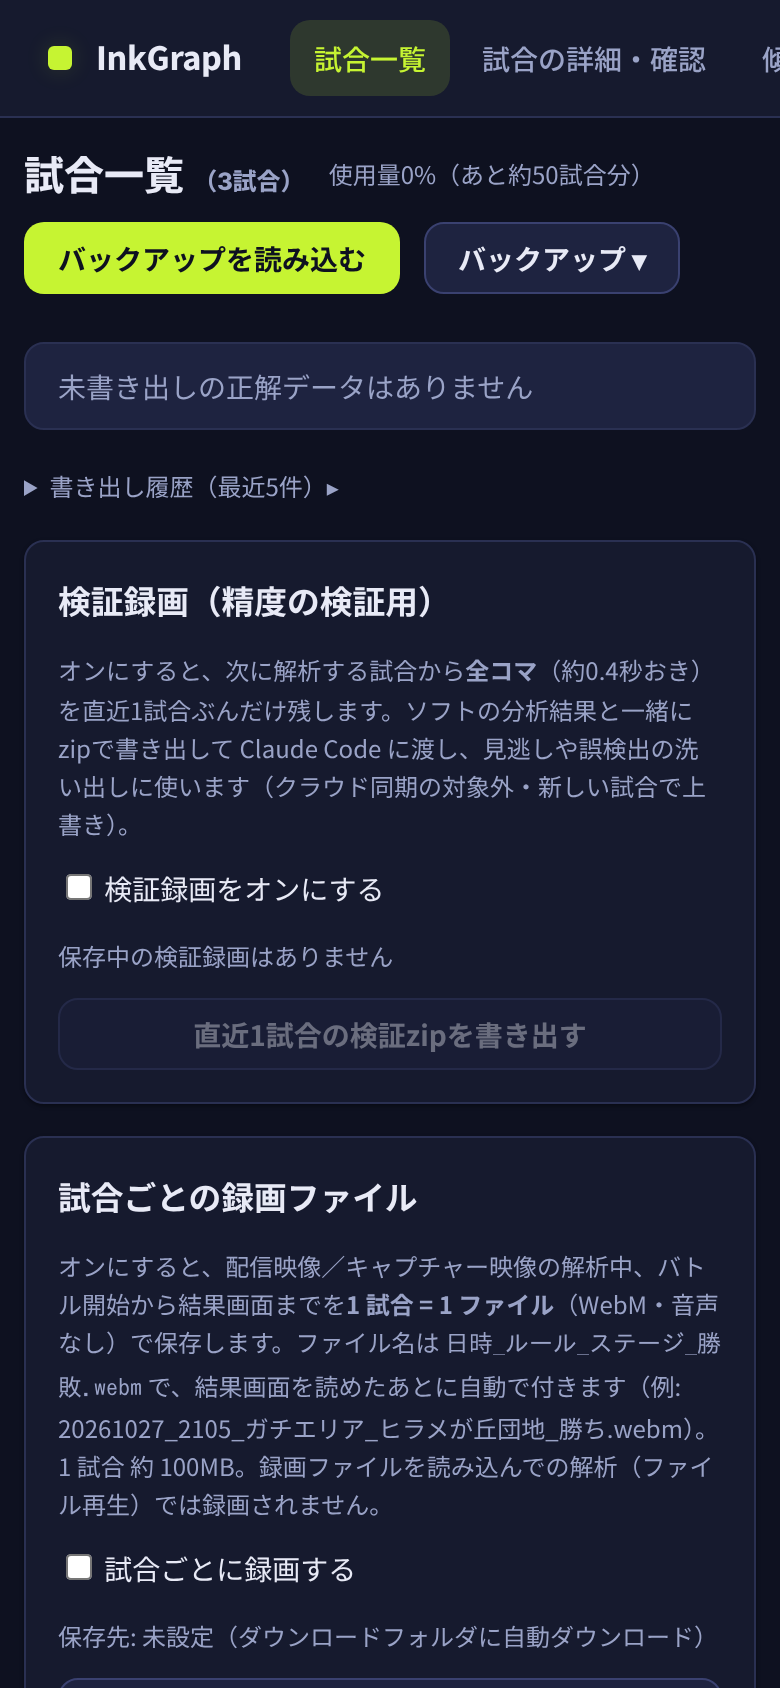
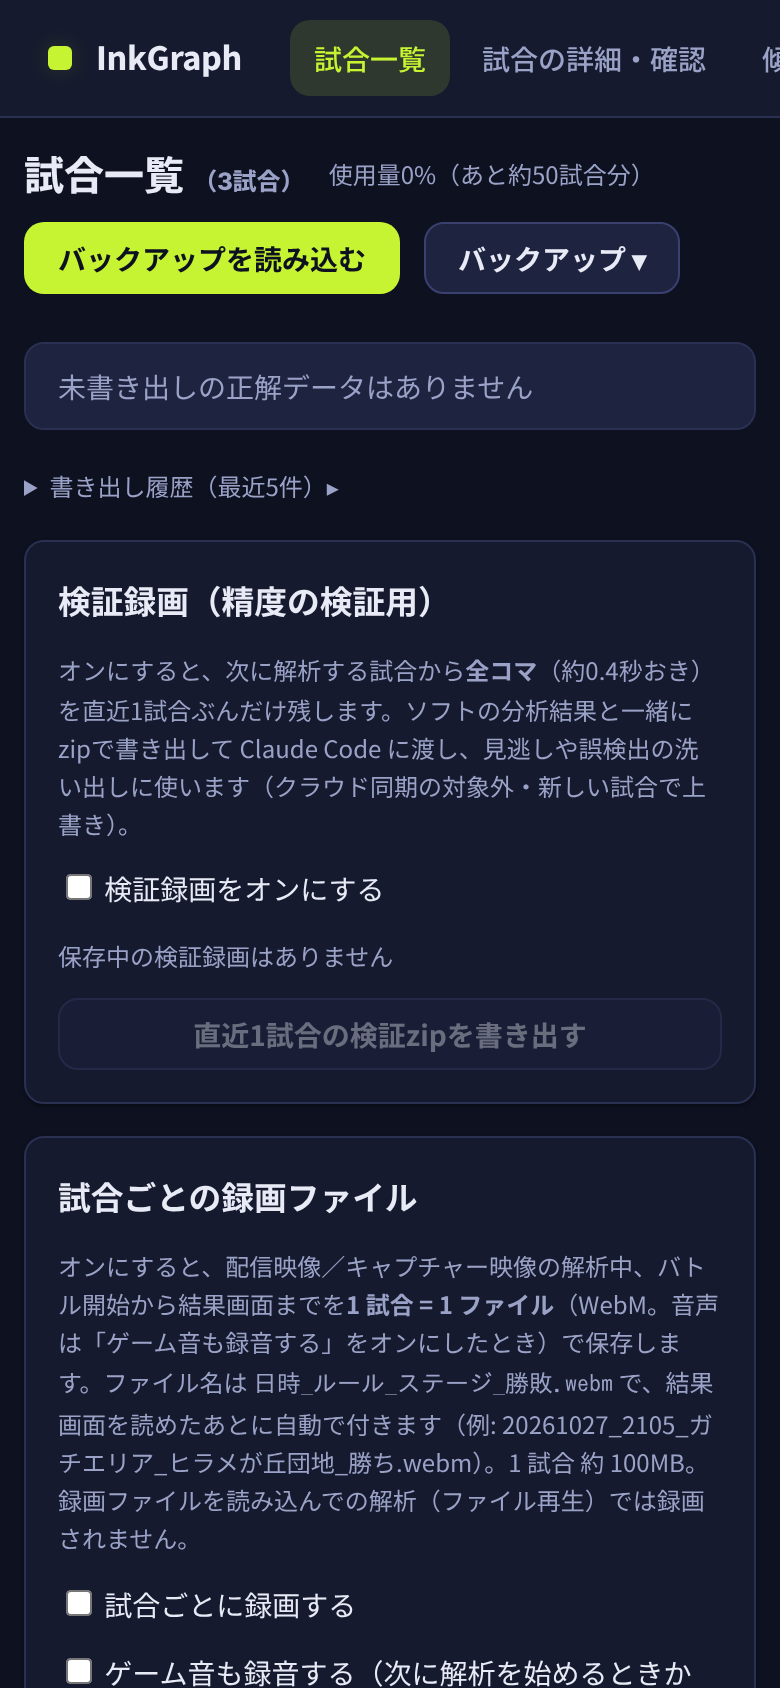
試合録画の状況表示と保存先の書き込み許可の聞き直し (D70) (#166)
* 検証録画: 直近1試合の全コマ＋分析結果のzip書き出し (D67)

Claude-Session: https://claude.ai/code/session_018zsqgbHNLDpb8cVTBpk5SR

* 試合ごとの録画ファイル: ルール・ステージ入りの名前で1試合1ファイル (D68)

Claude-Session: https://claude.ai/code/session_018zsqgbHNLDpb8cVTBpk5SR

* 試合録画にゲーム音を追加 (D68追記)

Claude-Session: https://claude.ai/code/session_018zsqgbHNLDpb8cVTBpk5SR

* ブキアイコンの読み違い対策（ボードの数が読めない枠を捨てる・絵の無いアイコンを出さない）と記録の全消去ボタン (D69)

Claude-Session: https://claude.ai/code/session_018zsqgbHNLDpb8cVTBpk5SR

* 試合録画: 状況表示と保存先の書き込み許可の聞き直し (D70)

Claude-Session: https://claude.ai/code/session_018zsqgbHNLDpb8cVTBpk5SR

* 試合録画: 2試合連続で別ファイルになることのテストを追加

Claude-Session: https://claude.ai/code/session_018zsqgbHNLDpb8cVTBpk5SR

---------

Changed region(s): [[0.0615, 0.7701, 0.9231, 1.0]]

diff --git a/web/src/session.js b/web/src/session.js
@@ -6,7 +6,7 @@ import { selectClips } from './clips.js';
 import AnalyzerWorker from './worker.js?worker';
 import { CaptureGuard } from './capture_guard.js';
 import * as detectParams from './detect_params.js';
-import { MatchRecorder, videoSupported, getVideoOn, getAudioOn, videoFilename, saveVideo } from './video_rec.js';
+import { MatchRecorder, videoSupported, getVideoOn, getAudioOn, videoFilename, saveVideo, ensureDirPermission } from './video_rec.js';
 export async function listDevices() {
   try { const s = await navigator.mediaDevices.getUserMedia({ video: true }); s.getTracks().forEach(t => t.stop()); } catch (e) { /* permission denied */ }
   return (await navigator.mediaDevices.enumerateDevices()).filter(d => d.kind === 'videoinput');
@@ -20,6 +20,12 @@ export class Session {
   }
   async start({ mode, deviceId, file, fast = false, owner = 'self' }) {
     const wantAudio = getVideoOn() && getAudioOn();
+    // D70: 録画の状況を画面に出す。保存先の書き込み許可は、開始ボタンを押した直後（ユーザー操作の中）に聞き直す（再読み込みのあとは切れている）
+    if (getVideoOn()) {
+      if (mode === 'file') this.videoNote('録画: 録画ファイルの解析では録画しません（配信映像／キャプチャー映像のときだけ録画します）');
+      else if (!videoSupported()) this.videoNote('録画: このブラウザは録画（MediaRecorder）に対応していません');
+      else { const h = await db.getVideoDir().catch(() => null), p = await ensureDirPermission(h); this.videoNote(h ? (p === 'granted' ? `録画: オン（保存先: ${h.name}）。次のバトル開始から録画します` : '録画: オン。保存先フォルダの書き込みが許可されなかったので、ダウンロードで保存します') : '録画: オン（保存先フォルダ未設定のため、ダウンロードで保存します）。次のバトル開始から録画します'); }
+    }
     this.mode = mode; this.owner = owner || 'self'; this.fast = fast; this.sessionId = new Date().toISOString();
     if (mode === 'stream') {
       this.sourceName = '配信映像（画面共有）';
@@ -161,19 +167,20 @@ export class Session {
     else if (m.type === 'flushed') this.flushed?.();
   }
   // D68: 試合ごとの録画。バトル開始で録り始め、終了の 25 秒後（結果画面ぶん）に止めて、試合の保存時に名前を付けて保存する
+  videoNote(msg, level = 'info') { try { this.cb.videoStatus?.({ msg, level }); } catch { /* ignore */ } }
   videoStart() {
     if (this.mode === 'file' || !this.stream || !videoSupported() || !getVideoOn()) return;
     this.videoQueue = this.videoQueue || [];
-    try { const r = new MatchRecorder(this.stream).start(); this.vcur = { r, timer: null }; this.videoQueue.push(this.vcur); } catch (e) { console.warn('video start failed', e); this.vcur = null; }
+    try { const r = new MatchRecorder(this.stream).start(); this.vcur = { r, timer: null }; this.videoQueue.push(this.vcur); this.videoNote('録画: 開始しました（バトル終了と結果画面のあとに保存します）'); } catch (e) { console.warn('video start failed', e); this.vcur = null; this.videoNote('録画: 開始できませんでした（' + (e?.message || e) + '）', 'error'); }
   }
   videoEndSoon() { const c = this.vcur; if (c && !c.timer) c.timer = setTimeout(() => c.r.stop(), 25000); }
   videoDrop() { const c = this.vcur; if (!c) return; clearTimeout(c.timer); c.r.stop(); this.videoQueue = (this.videoQueue || []).filter(x => x !== c); this.vcur = null; }
   async videoFinalize(rec, keep) {
     const c = (this.videoQueue || []).shift(); if (!c) return;
     clearTimeout(c.timer); if (this.vcur === c) this.vcur = null;
-    const blob = await c.r.stop(); if (!keep || !blob || !blob.size) return;
+    const blob = await c.r.stop(); if (!keep) return; if (!blob || !blob.size) { this.videoNote('録画: 映像が空だったので保存しませんでした', 'error'); return; }
     try { const name = videoFilename({ ...rec, created: new Date(Date.parse(this.sessionId) + (rec.battle?.[0] ?? 0) * 1000).toISOString() }), res = await saveVideo(blob, name, { getDir: db.getVideoDir }); rec.videoFile = name; this.cb.videoSaved?.({ ...res, bytes: blob.size }); }
-    catch (e) { console.warn('video save failed', e); }
+    catch (e) { console.warn('video save failed', e); this.videoNote('録画: 保存に失敗しました（' + (e?.message || e) + '）', 'error'); }
   }
   async saveMatch(rec) {
     if (!this.fast) {

diff --git a/web/src/main.js b/web/src/main.js
@@ -87,6 +87,7 @@ getEnemyIconLib();
 window.inkgraph = {
   db,
   VR,
+  Session,
   learn,
   analysis: AN,
   capacity: CP,
@@ -688,7 +689,8 @@ PAGES.live = async () => {
     const vEmpty = $('#video-empty', page);
     if (vEmpty) vEmpty.style.display = 'none';
     session = new Session($('#v', page), {
-      videoSaved: r => { try { addEventRow('', '🎬', `録画を保存: ${r.filename}（${r.where === 'folder' ? 'フォルダ「' + r.folder + '」' : 'ダウンロード'}・${fmtBytes(r.bytes)}）`, null); } catch { /* ignore */ } },
+      videoSaved: r => { try { addEventRow('', '🎬', `録画を保存: ${r.filename}（${r.where === 'folder' ? 'フォルダ「' + r.folder + '」' : 'ダウンロード' + (r.why ? '・理由: ' + r.why : '')}・${fmtBytes(r.bytes)}）`, null); } catch { /* ignore */ } },
+      videoStatus: r => { try { addEventRow('', r.level === 'error' ? '⚠' : '🎬', r.msg, null); } catch { /* ignore */ } },
       event: e => {
         if (e.type === 'special_end') return;
         const tt = mss(e.t - t0);
@@ -1762,9 +1764,10 @@ PAGES.list = async () => {
       <label class="row"><input type="checkbox" id="video-audio" ${VR.getAudioOn() ? 'checked' : ''} ${sup ? '' : 'disabled'}> ゲーム音も録音する（次に解析を始めるときから）</label>
       <p class="muted">配信映像（画面共有）: 共有ダイアログの「タブの音声／システムの音声も共有」にチェックを入れてください（Windows の Chrome／Edge。Mac は「タブ」の音声のみ）。キャプチャー映像: ボードの音声入力（映像と同じ機器の音声）を自動で探して足します。見つからないときは音声なしで録画します。録画中、画面からの再生音は出しません（二重に聞こえるのを防ぐため）。</p>
       <p class="muted" id="video-dir">保存先: ${dir ? esc(dir.name) + (perm === 'granted' ? '（書き込み許可済み）' : '（許可が切れています。「保存先を選ぶ」で選び直してください）') : '未設定（ダウンロードフォルダに自動ダウンロード）'}</p>
-      <button class="btn" id="video-pick" type="button" ${canPick ? '' : 'disabled'}>${dir ? '保存先を選び直す' : '保存先フォルダを選ぶ'}</button>${canPick ? '' : '<span class="muted"> このブラウザはフォルダ指定に未対応（Chrome／Edge なら可）。ダウンロードで保存します。</span>'}`;
+      <button class="btn" id="video-pick" type="button" ${canPick ? '' : 'disabled'}>${dir ? '保存先を選び直す' : '保存先フォルダを選ぶ'}</button>${dir && perm !== 'granted' ? ' <button class="btn" id="video-regrant" type="button">書き込みを許可する</button>' : ''}${canPick ? '' : '<span class="muted"> このブラウザはフォルダ指定に未対応（Chrome／Edge なら可）。ダウンロードで保存します。</span>'}`;
     $('#video-on', el).onchange = e => VR.setVideoOn(e.target.checked);
     $('#video-audio', el).onchange = e => VR.setAudioOn(e.target.checked);
+    const rg = $('#video-regrant', el); if (rg) rg.onclick = async () => { await VR.ensureDirPermission(dir); await updateVideoPanel(); };
     $('#video-pick', el).onclick = async () => { try { const h = await window.showDirectoryPicker({ mode: 'readwrite' }); await db.setVideoDir(h); await updateVideoPanel(); } catch { /* cancelled */ } };
   };
   await updateVideoPanel();

diff --git a/web/src/video_rec.js b/web/src/video_rec.js
@@ -40,17 +40,25 @@ export const getAudioOn = () => { try { return localStorage.getItem(KEY + '.audi
 export const setAudioOn = on => { try { localStorage.setItem(KEY + '.audio', on ? '1' : '0'); } catch { /* ignore */ } };
 export const setVideoOn = on => { try { localStorage.setItem(KEY, on ? '1' : '0'); } catch { /* ignore */ } };
 
+/** 保存先フォルダの書き込み許可。再読み込みのあとは 'prompt' に戻っているので、ボタンを押した直後（ユーザー操作の中）に聞き直す。'granted' / 'denied' / 'prompt' / null（フォルダ未設定）を返す */
+export async function ensureDirPermission(h) {
+  if (!h) return null;
+  try { let p = await h.queryPermission?.({ mode: 'readwrite' }); if (p !== 'granted') p = await h.requestPermission?.({ mode: 'readwrite' }); return p || 'prompt'; } catch { return 'prompt'; }
+}
+
 /** 保存先フォルダ（File System Access API）。ハンドルは IndexedDB の learn ストア（key: videoDir）に持つ。使えないときはダウンロード */
 export async function saveVideo(blob, filename, store) {
   const h = await store.getDir?.();
+  let why = h ? null : 'フォルダ未設定';
   if (h) {
     try {
       if ((await h.queryPermission?.({ mode: 'readwrite' })) === 'granted') {
         const fh = await h.getFileHandle(filename, { create: true }), w = await fh.createWritable(); await w.write(blob); await w.close();
         return { where: 'folder', folder: h.name, filename };
       }
-    } catch (e) { console.warn('folder save failed', e); }
+      why = '書き込み許可が切れている';
+    } catch (e) { console.warn('folder save failed', e); why = 'フォルダへの保存に失敗（' + (e?.message || e) + '）'; }
   }
   const a = document.createElement('a'); a.href = URL.createObjectURL(blob); a.download = filename; document.body.appendChild(a); a.click(); a.remove(); setTimeout(() => URL.revokeObjectURL(a.href), 60000);
-  return { where: 'download', filename };
+  return { where: 'download', filename, why };
 }

diff --git a/docs/DECISIONS.md b/docs/DECISIONS.md
@@ -801,3 +801,9 @@
 - 対策②（出さない）：`iconHasDetail(icon)`（内側の横方向で、隣との差が 16 以上の画素が 3% 以上＝くっきりした輪郭がある）。名前付けの候補（`unknownIconGroups`）と「いた敵ブキ」などの集計（`enemyPresenceRows`）は、絵の無いアイコンを数えない。すでに記録されている無地のアイコンも、これで一覧から消える（過去の試合のアイコンは作り直せない。新しく解析した試合から正しく貯まる）。
 - 「記録をすべて消す」：リスト画面の「記録をすべて消す（リセット）」。試合・静止画・場面クリップ・昔の録画・検証録画を消す（`db.resetAll`）。「確認」→「消すと入力」の 2 段階。チェックを入れると、学習結果・検出パラメータの調整・ブキの名前・各種の設定も初期化する（ログイン情報・保存先フォルダは残す）。クラウド同期中は、試合ごとの「消した」印が付くので、次の同期でクラウドの記録も消える。
 - 検証：`web/tools/board_guard_check.mjs`（6 件：実フレームは個人成績・ボードとして読んでも数が読めない・本物のボードの判定・実測 96 枠の輪郭 5.6% 以上・無地／色むらは絵なし・名前付け候補に絵のあるアイコンだけ）、`web/tools/reset_check.mjs`（実ブラウザ 6 件）。`enemy_icon_check`・`weapon_stats_check`・`result_missing_check`・`unknown_rule_check`・`cloud_sync_check`・`reconcile_check`・`yolo_header_check`・`recorrect_check`・`match_type_power_check` も PASS。**実際のキャプチャー映像でのボード読み取りの確認は未**（本物のボード画面の全体フレームがリポジトリに無いため）。
+
+## D70 (2026-10-28) 試合録画の状況表示と、保存先の書き込み許可の聞き直し（D68 の変更）
+- 症状：録画をオンにして解析を始めたが、録画ファイルができなかった（Edge）。録画が動いたか・なぜ保存されなかったかが画面に出ず、原因が分からなかった。
+- 考えられる原因（実機では未特定）：①解析を始めたのが試合の途中だった（録画は**次のバトル開始**から）、②録画ファイルの解析（file モード）だった、③ページを開き直したあとで、保存先フォルダの書き込み許可が切れていた（`queryPermission` が `prompt` に戻る）→ フォルダに書けずダウンロードに落ち、ブラウザが自動ダウンロードを止めていた、④キャプチャーの中断で試合が「保存しない」と判定され、録画も捨てられた。
+- 対策：解析を始めるボタンを押した**直後**（ユーザー操作の中）に、保存先の書き込み許可を聞き直す（`ensureDirPermission`）。許可されなければ理由つきでダウンロード保存にする（`saveVideo` が `why` を返し、ライブ画面のイベント一覧に「理由: 書き込み許可が切れている」などと出す）。録画の状況（オン・保存先・開始・映像が空・保存失敗・ファイル解析では録画しない・非対応ブラウザ）を、ライブ画面のイベント一覧に 🎬／⚠ で出す（`Session.videoNote` → `videoStatus`）。リスト画面のパネルに、許可が切れているとき「書き込みを許可する」ボタンを出す。
+- 検証：`video_rec_check` に、許可の聞き直し・許可が無いときの理由つきダウンロード・`Session` の配線（バトル開始 → 録画開始の通知 → 試合保存でルール・ステージ入りの名前 → ダウンロード）を追加（計 17 件 PASS。2 試合続けて 2 つのファイルに分かれることも確認）。`session_keepalive_check`・`stream_capture_check`・`cloud_ui_check` も PASS。**実際のキャプチャー映像・Edge でのフォルダ保存は未確認。**
